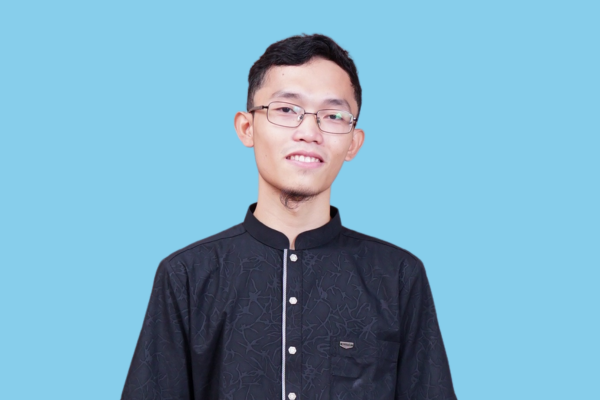
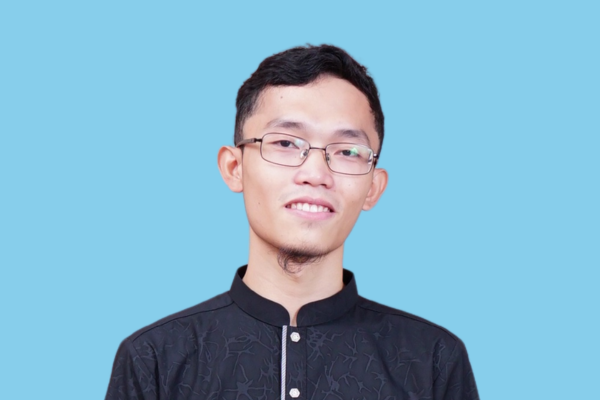
update content portofolio

diff --git a/contact/index.html b/contact/index.html
@@ -6,13 +6,13 @@
     <title>Contact Me</title>
     <link rel="stylesheet" href="style.css">
     <link rel="stylesheet" href="https://fonts.googleapis.com/css2?family=Material+Symbols+Outlined:opsz,wght,FILL,GRAD@24,400,0,0&icon_names=support_agent" />
-    <script src="/web-porto/contact/contact.js"></script>
+    <script src="../contact/contact.js"></script>
 </head>
 <body>
     <!-- navbar -->
     <nav>
         <div class="left-nav">
-            <a href="../index.html"><img src="/web-porto/assets/img/aigen-logo.png" alt="navlogo"></a>
+            <a href="../index.html"><img src="../assets/img/aigen-logo.png" alt="navlogo"></a>
             <a href="../index.html">Home</a>
             <a href="../blog/index.html">Blog</a>
         </div>

diff --git a/blog/index.html b/blog/index.html
@@ -6,7 +6,7 @@
     <title>Blog</title>
     <link rel="stylesheet" href="style.css">
     <link rel="stylesheet" href="https://fonts.googleapis.com/css2?family=Material+Symbols+Outlined:opsz,wght,FILL,GRAD@24,400,0,0&icon_names=support_agent" />
-    <script src="/web-porto/blog/blog.js"></script>
+    <script src="../blog/blog.js"></script>
 </head>
 <body>
     <!-- navbar -->

diff --git a/index.html b/index.html
@@ -28,7 +28,7 @@
         <div class="left">
             <div class="card">
                 <div class="image">
-                    <img src="assets/img/profile-pic2.png" alt="profile pic">
+                    <img src="assets/img/profile-pic.png" alt="profile pic">
                 </div>
                 <div class="header">
                     <h1>Dimas Sulaksono</h1>

diff --git a/blog/style.css b/blog/style.css
@@ -22,7 +22,6 @@ nav .left-nav{
     display: flex;
     align-items: center;
     gap: 40px;
-    margin-left: 40px;
 }
 
 nav .left-nav img{

diff --git a/contact/style.css b/contact/style.css
@@ -22,7 +22,6 @@ nav .left-nav{
     display: flex;
     align-items: center;
     gap: 40px;
-    margin-left: 40px;
 }
 
 nav .left-nav img{
